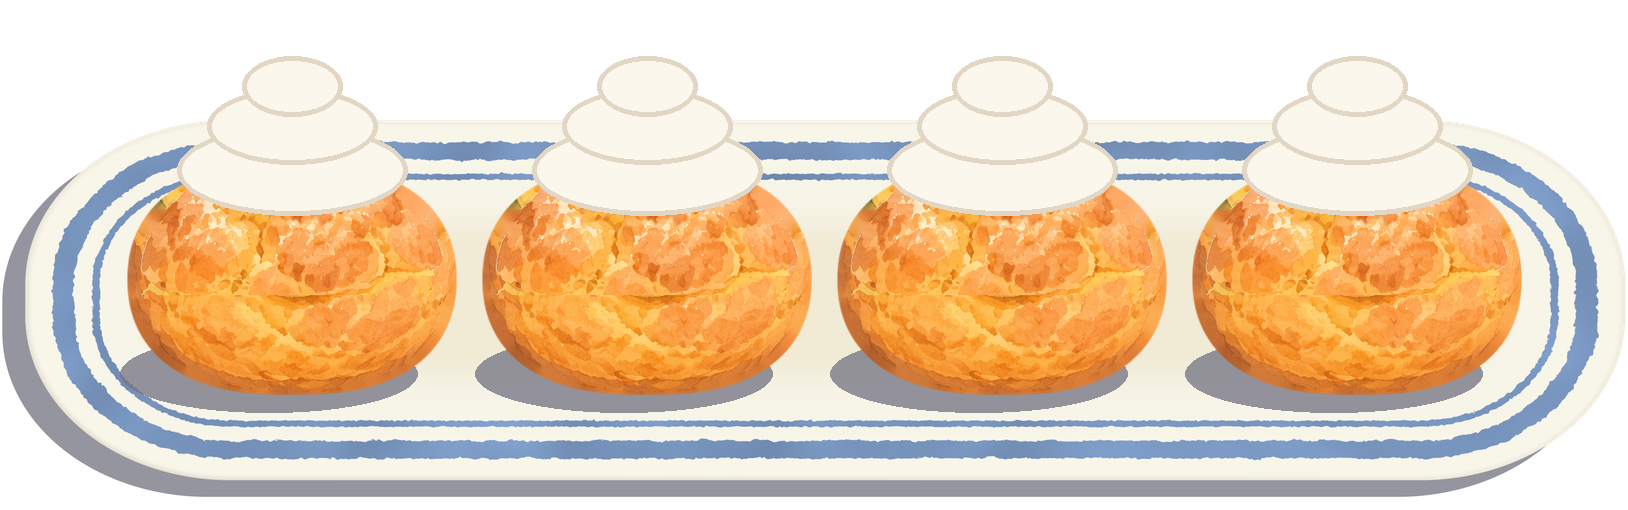
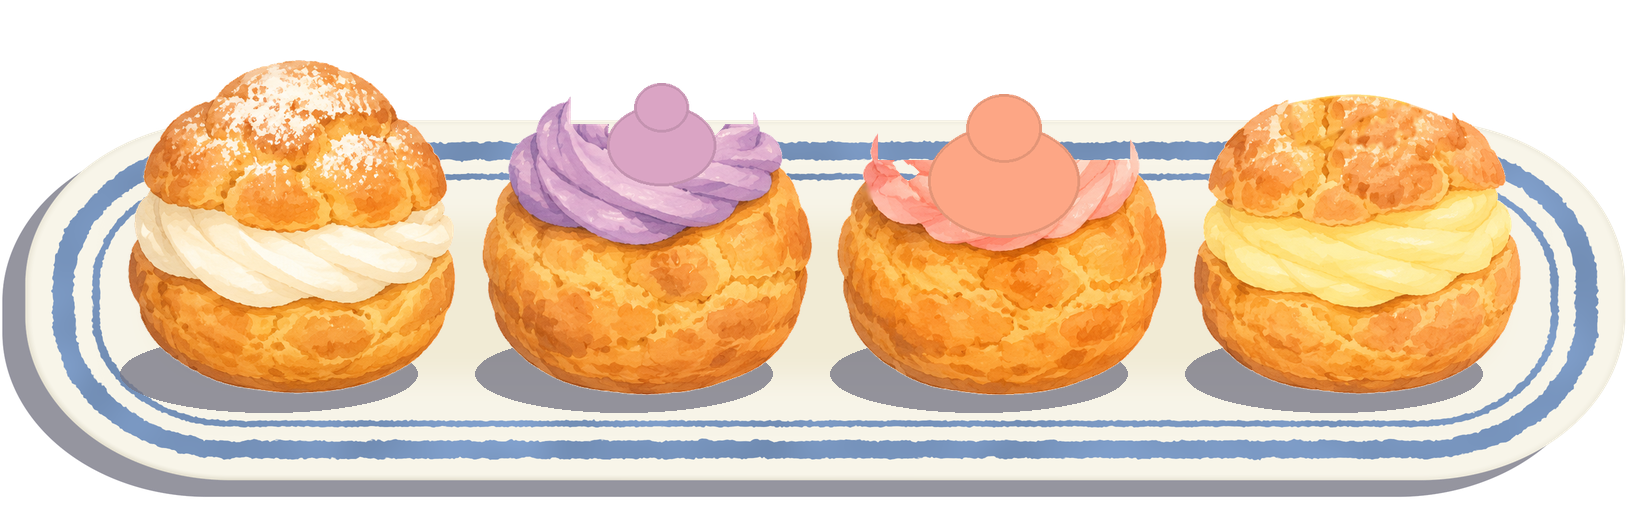
Kitchen flow (owner, 20 Nov): the choux plate starts on the kitchen table at a free place (FreeTableSpot; the opening under the counter only when the table is full); plain choux rounder; the creamed choux are the final four without their fruit

Changed region(s): [[0.0614, 0.0882, 0.9521, 0.7941], [0.7985, 0.7647, 0.86, 0.7941], [0.86, 0.7353, 0.8907, 0.7647]]

diff --git a/Assets/Scripts/Kitchen/KitchenArrange.cs b/Assets/Scripts/Kitchen/KitchenArrange.cs
@@ -49,8 +49,8 @@ public static class KitchenArrange
         new Def { name = "basket",   foot = new Vector2(0.56f, 0.5177f),  box = new Vector4(0.20f, 0.25f, 0.80f, 0.95f),   fit = new Vector4(0.01f, 0.03f, 0.98f, 0.95f) },
         new Def { name = "cake",     foot = new Vector2(0.8078f, 0.451f), box = new Vector4(0.21f, 0.03f, 0.875f, 0.775f), fit = new Vector4(0.01f, 0.03f, 0.99f, 0.98f) },
         new Def { name = "coffee",   foot = new Vector2(0.2694f, 0.6859f),box = new Vector4(0.20f, 0.25f, 0.80f, 0.90f),   fit = new Vector4(0.07f, 0.10f, 0.92f, 0.90f) },
-        // the choux plate (20 November 2026, KitchenFlow): in the big opening under the counter, which is free; made by this file
-        new Def { name = "chouxplate", foot = new Vector2(0.2861f, 0.2906f), box = new Vector4(0.02f, 0.05f, 0.98f, 0.98f), fit = new Vector4(0.02f, 0.05f, 0.98f, 0.98f), size = new Vector2(300f, 94f) },
+        // the choux plate (20 November 2026, KitchenFlow), made by this file: on the table at a free place (FirstCheck); this foot, the opening under the counter, is the fallback
+        new Def { name = "chouxplate", foot = new Vector2(0.2861f, 0.2906f), box = new Vector4(0.05f, 0.30f, 0.95f, 0.98f), fit = new Vector4(0.02f, 0.05f, 0.98f, 0.98f), size = new Vector2(270f, 85f) },
         new Def { name = "juice",    foot = new Vector2(0.1662f, 0.1469f),box = new Vector4(0.15f, 0.30f, 0.85f, 0.98f),   fit = new Vector4(0.13f, 0.07f, 0.87f, 0.98f) },
     };
 
@@ -123,6 +123,7 @@ public static class KitchenArrange
             working = new Dictionary<string, Vector2>();
             var kept = SessionManager.Instance != null ? SessionManager.Instance.GetKitchenPlaces() : null;
             foreach (var d in Defs) working[d.name] = kept != null && kept.TryGetValue(d.name, out var p) ? p : d.foot;
+            plateNeedsSpot = kept == null || !kept.ContainsKey("chouxplate");   // never placed by the player: it starts on the table
             fresh = true;
         }
 
@@ -294,8 +295,40 @@ public static class KitchenArrange
     /// One frame after the load, when the canvas has its size: the first check. An arrangement from the save that is
     /// red before the player touched anything (a newly bought piece stands where another was moved to) goes back to
     /// the game's own places, which never are.
+    private static bool plateNeedsSpot;
+
+    /// A free place on the kitchen table for a piece: its box on the table's top and on no other table piece's box,
+    /// the front of the table first, the middle before the sides.
+    private static bool FreeTableSpot(Piece p, out Vector2 foot)
+    {
+        foot = p.def.foot; if (AreaSize.x <= 0f) return false;
+        for (var y = TableLow + 0.004f; y <= TableHigh; y += 0.01f)
+            foreach (var x in new[] { 0.5f, 0.4f, 0.6f, 0.3f, 0.7f, 0.2f, 0.8f, 0.25f, 0.35f, 0.45f, 0.55f, 0.65f, 0.75f, 0.15f, 0.85f })
+            {
+                var f = new Vector2(x, y); if (!OnTable(p, f)) continue;
+                var r = Part(p, f, p.def.box); var free = true;
+                foreach (var o in pieces)
+                {
+                    if (o == p || o.rt == null || !o.rt.gameObject.activeInHierarchy || CabinetAt(o, working[o.def.name]) != null) continue;
+                    if (r.Overlaps(Part(o, working[o.def.name], o.def.box))) { free = false; break; }
+                }
+                if (free) { foot = f; return true; }
+            }
+        return false;
+    }
+
     public static void FirstCheck()
     {
+        // the choux plate, new in the kitchen: on the kitchen table (owner, 20 November 2026: "The default location ...
+        // for choux plate is on the kitchen table"), at a free place; only when the table is full it keeps the
+        // opening under the counter
+        if (plateNeedsSpot)
+        {
+            plateNeedsSpot = false;
+            var plate = Find("chouxplate");
+            if (plate != null && plate.rt != null && plate.rt.gameObject.activeInHierarchy && FreeTableSpot(plate, out var spot))
+            { plate.def.foot = spot; working["chouxplate"] = spot; Place(plate, spot); Sort(); }
+        }
         Check();
         if (AnyRed && fresh)
         {
